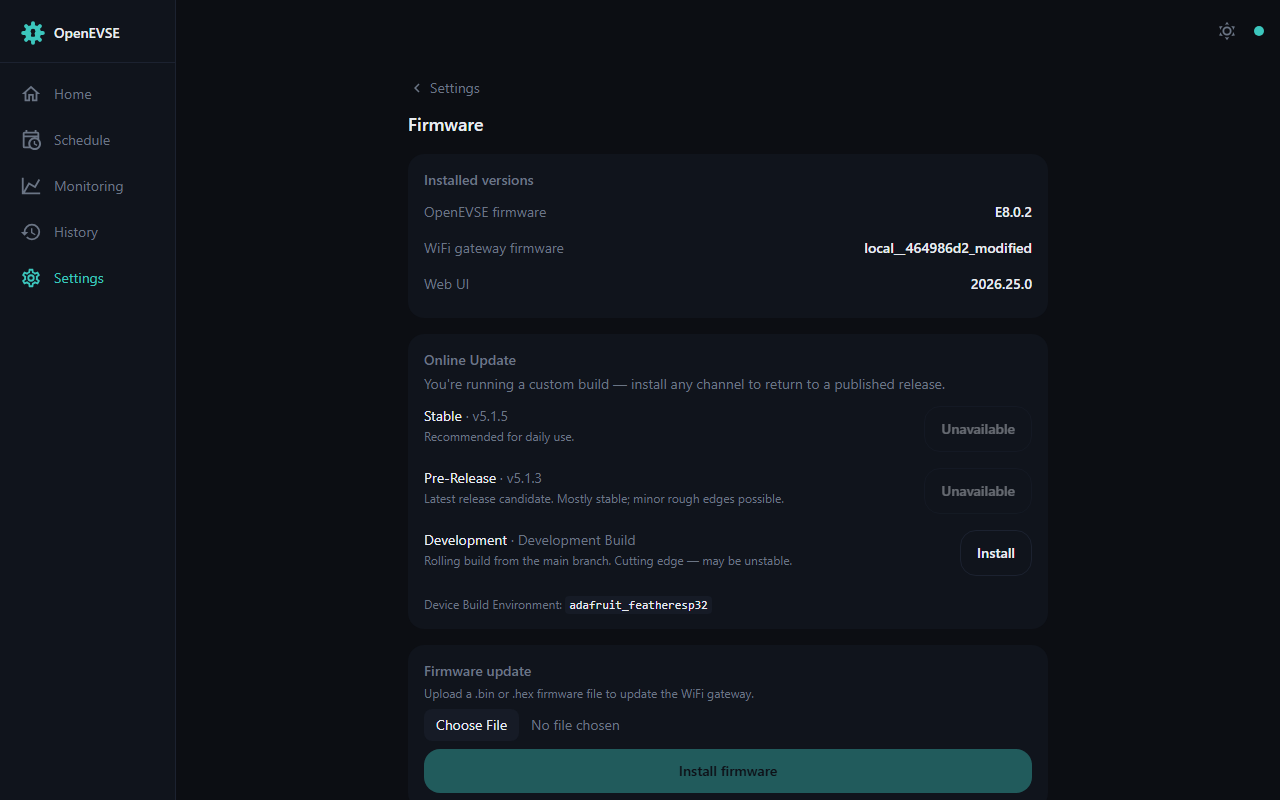
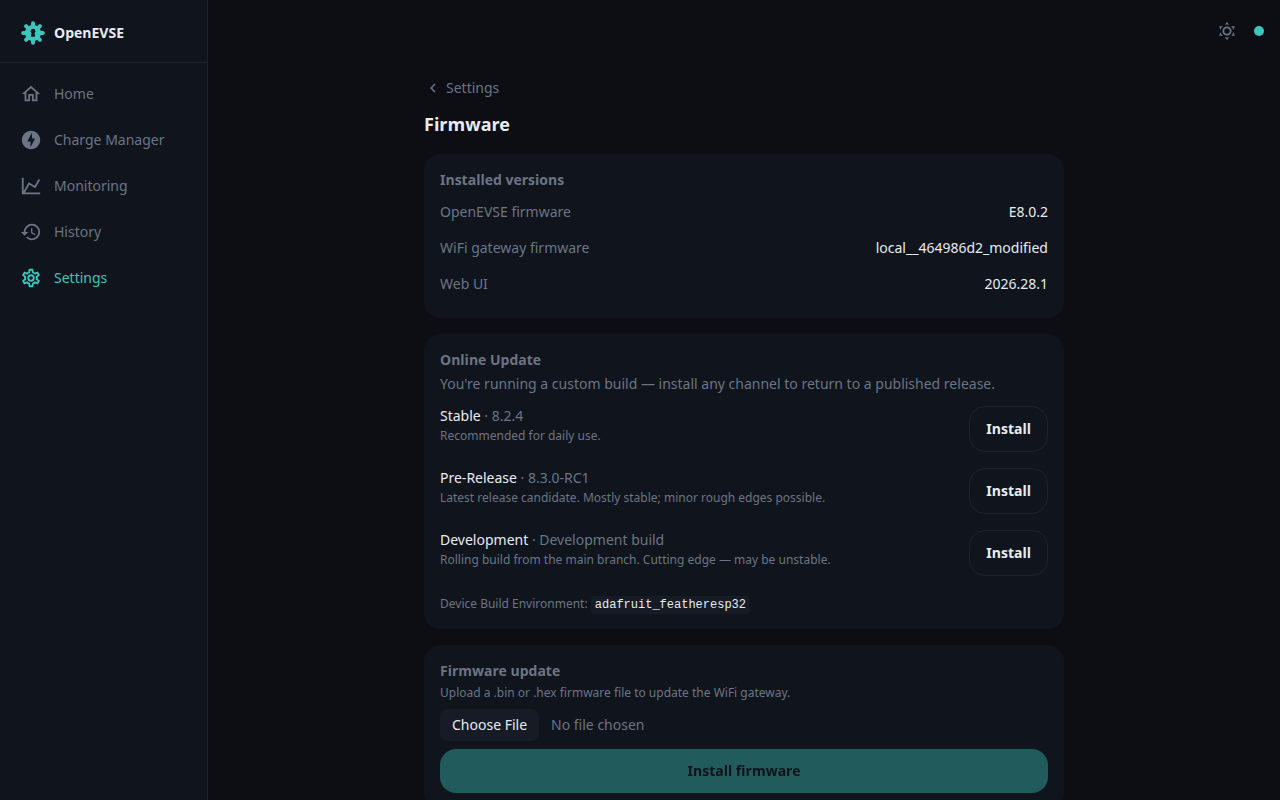
chore: quiet vitest plugin warning + fix firmware screenshot 403 (#55)

diff --git a/vitest.config.js b/vitest.config.js
@@ -5,7 +5,7 @@ import { readFileSync } from 'node:fs'
 const pkg = JSON.parse(readFileSync(new URL('./package.json', import.meta.url)))
 
 export default defineConfig({
-  plugins: [svelte({ hot: !process.env.VITEST })],
+  plugins: [svelte()],
   resolve: {
     conditions: ['browser'],
   },